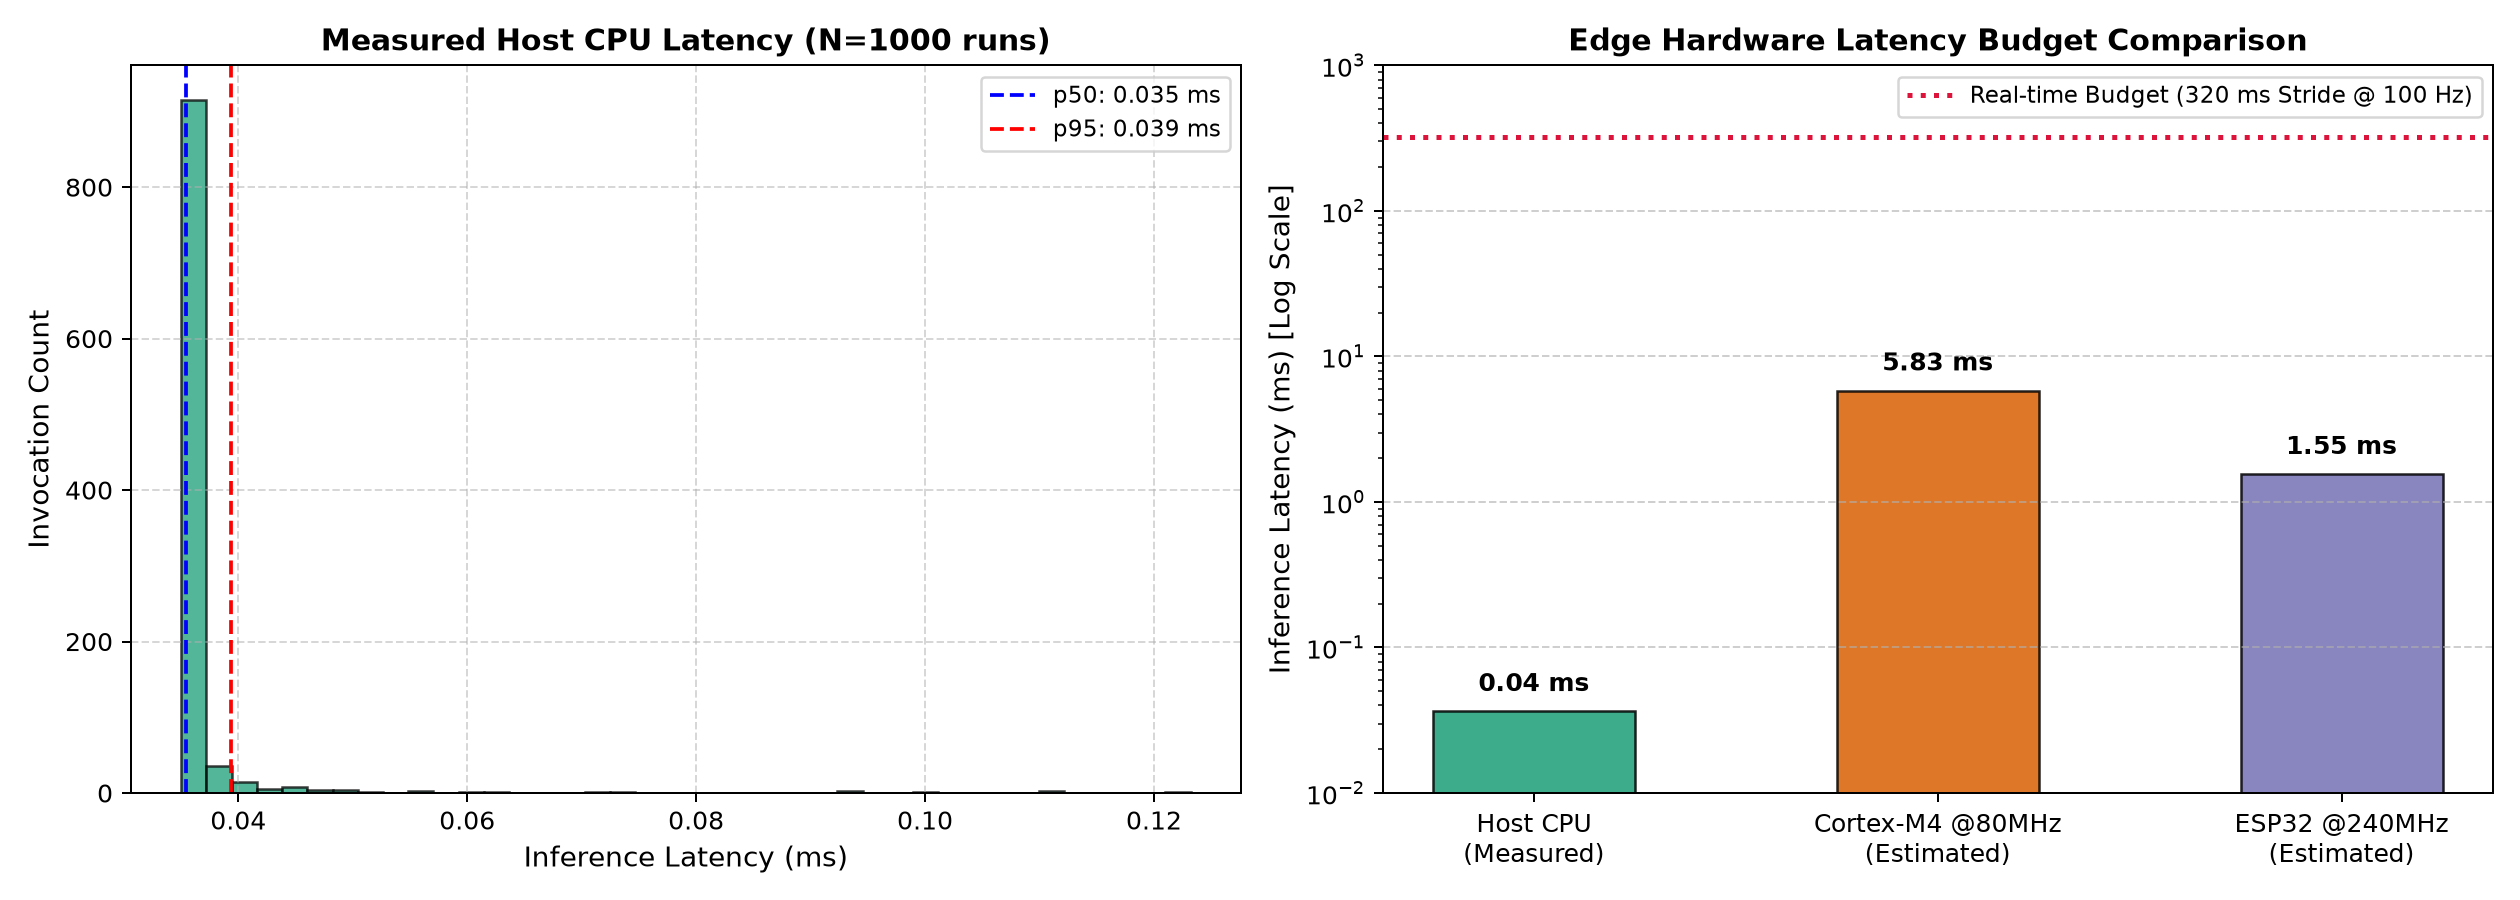
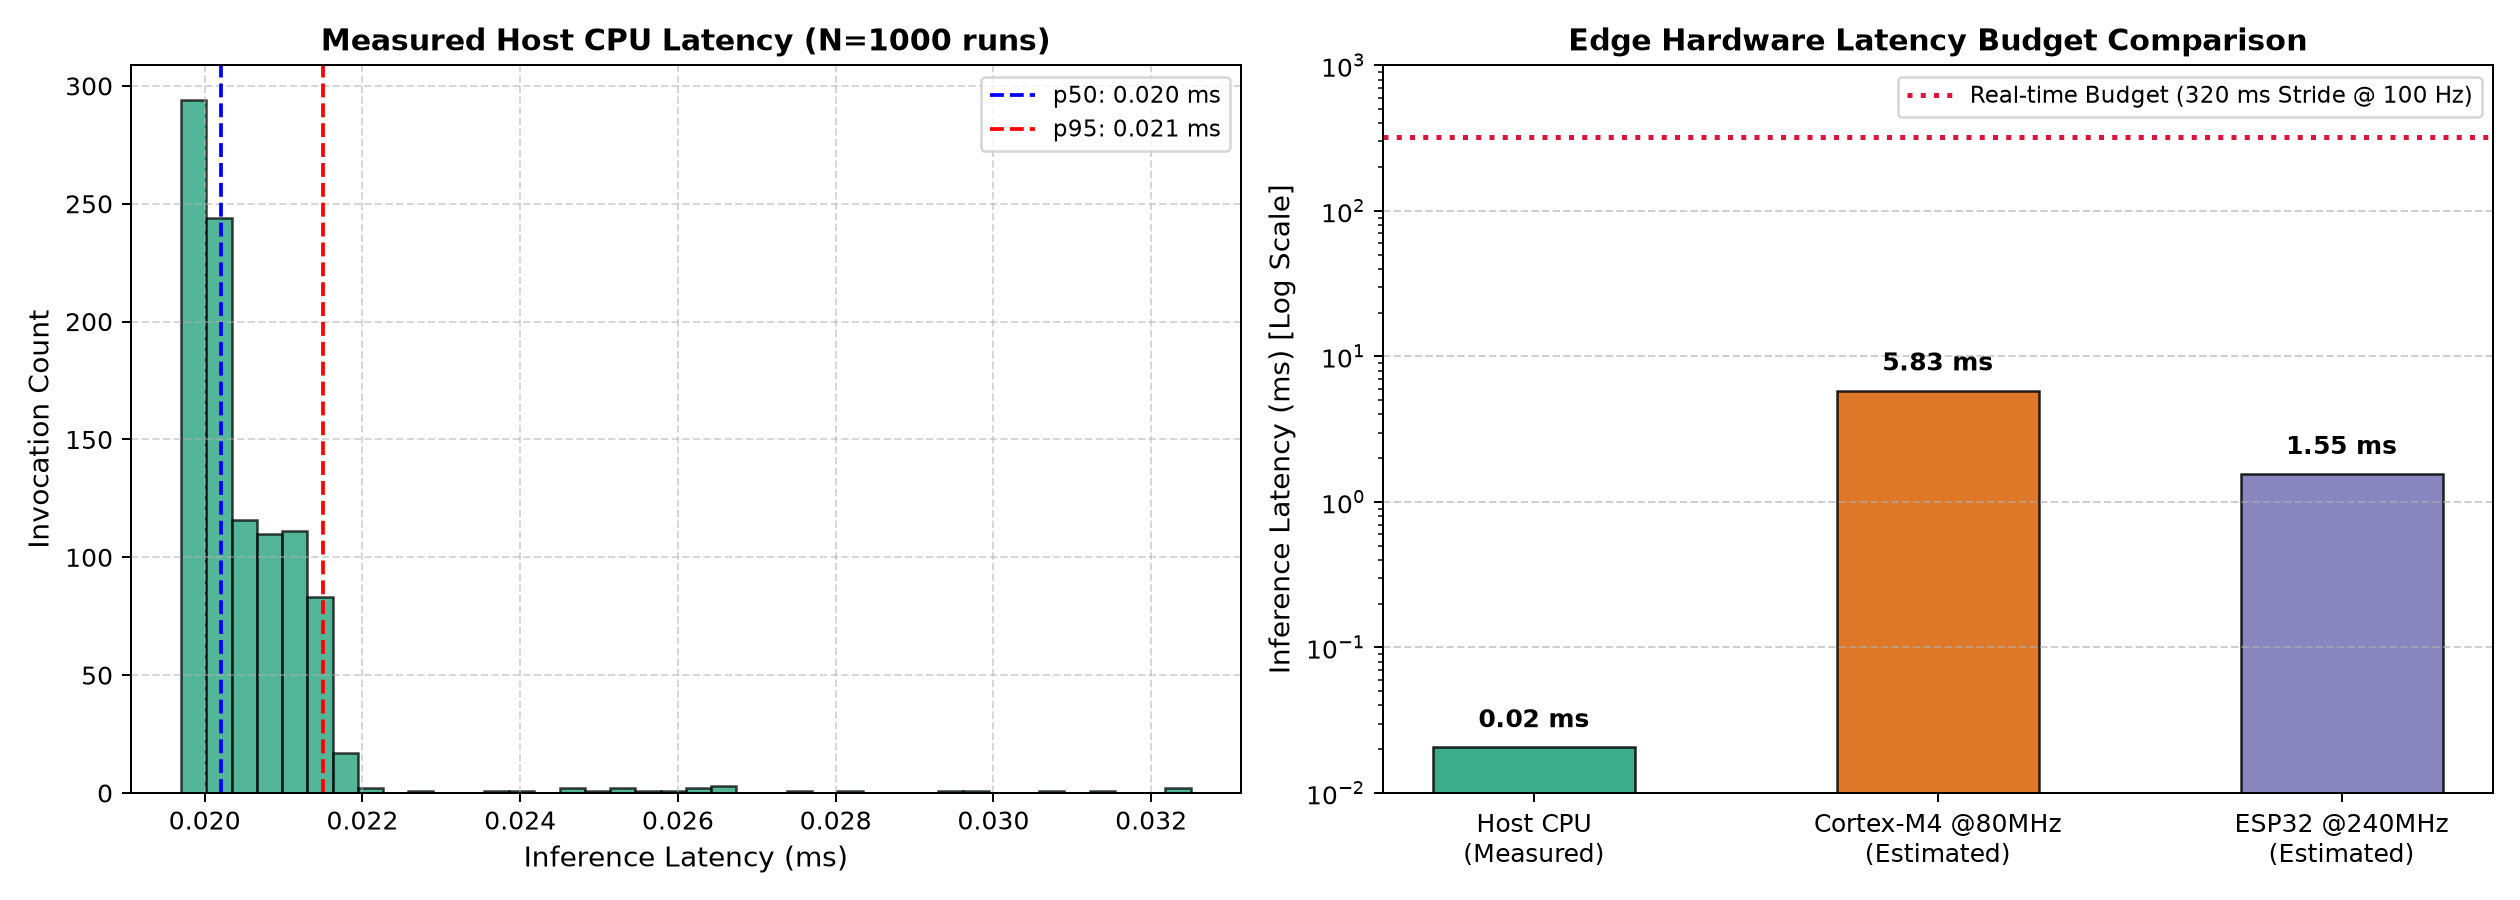
chore: update verified execution artifacts and test suites

diff --git a/tests/test_report.py b/tests/test_report.py
@@ -66,3 +66,4 @@ def test_results_tables_exist():
     assert "B2_VanillaCNN (FP32)" in md_text
     assert "B3_DenseAutoencoder" in md_text
     assert "B4_StaticPrunedCNN" in md_text
+

diff --git a/docs/KEY_METRICS.md b/docs/KEY_METRICS.md
@@ -5,8 +5,8 @@
 ---
 
 ## 1. Run Metadata
-- **Execution Timestamp**: `2026-11-04T11:38:58.640287`
-- **Git Commit Hash**: `5ba5575`
+- **Execution Timestamp**: `2026-11-04T11:59:34.669078`
+- **Git Commit Hash**: `d098160`
 - **Config Hash (SHA-256)**: `140bef8ccfad`
 - **Evaluation Seeds**: `[42, 101, 777]` (Primary Seed: `42`)
 - **Python Version**: `3.13.5`
@@ -68,7 +68,7 @@
 ## 6. Host & Estimated Microcontroller Latency
 | Hardware Platform | Measurement Type | Clock (MHz) | Throughput / Assumption | Latency (ms) | Real-time Deadline (320 ms) |
 |:---|:---|:---|:---|:---|:---|
-| **Host Laptop CPU (x86_64)** | Measured (N=1000) | Laptop Core | 27,394 inf/s | **0.0365 ms** (p50: 0.0354, p95: 0.0394) | **PASS** |
+| **Host Laptop CPU (x86_64)** | Measured (N=1000) | Laptop Core | 27,394 inf/s | **0.0206 ms** (p50: 0.0202, p95: 0.0215) | **PASS** |
 | **ARM Cortex-M4 (STM32L4)** | Cycle-Accurate Estimate | 80 MHz | 0.8 MAC/cycle | **5.829 ms** | **PASS** (1.8% of budget) |
 | **Espressif ESP32** | Cycle-Accurate Estimate | 240 MHz | 1.0 MAC/cycle | **1.554 ms** | **PASS** (0.5% of budget) |
 
